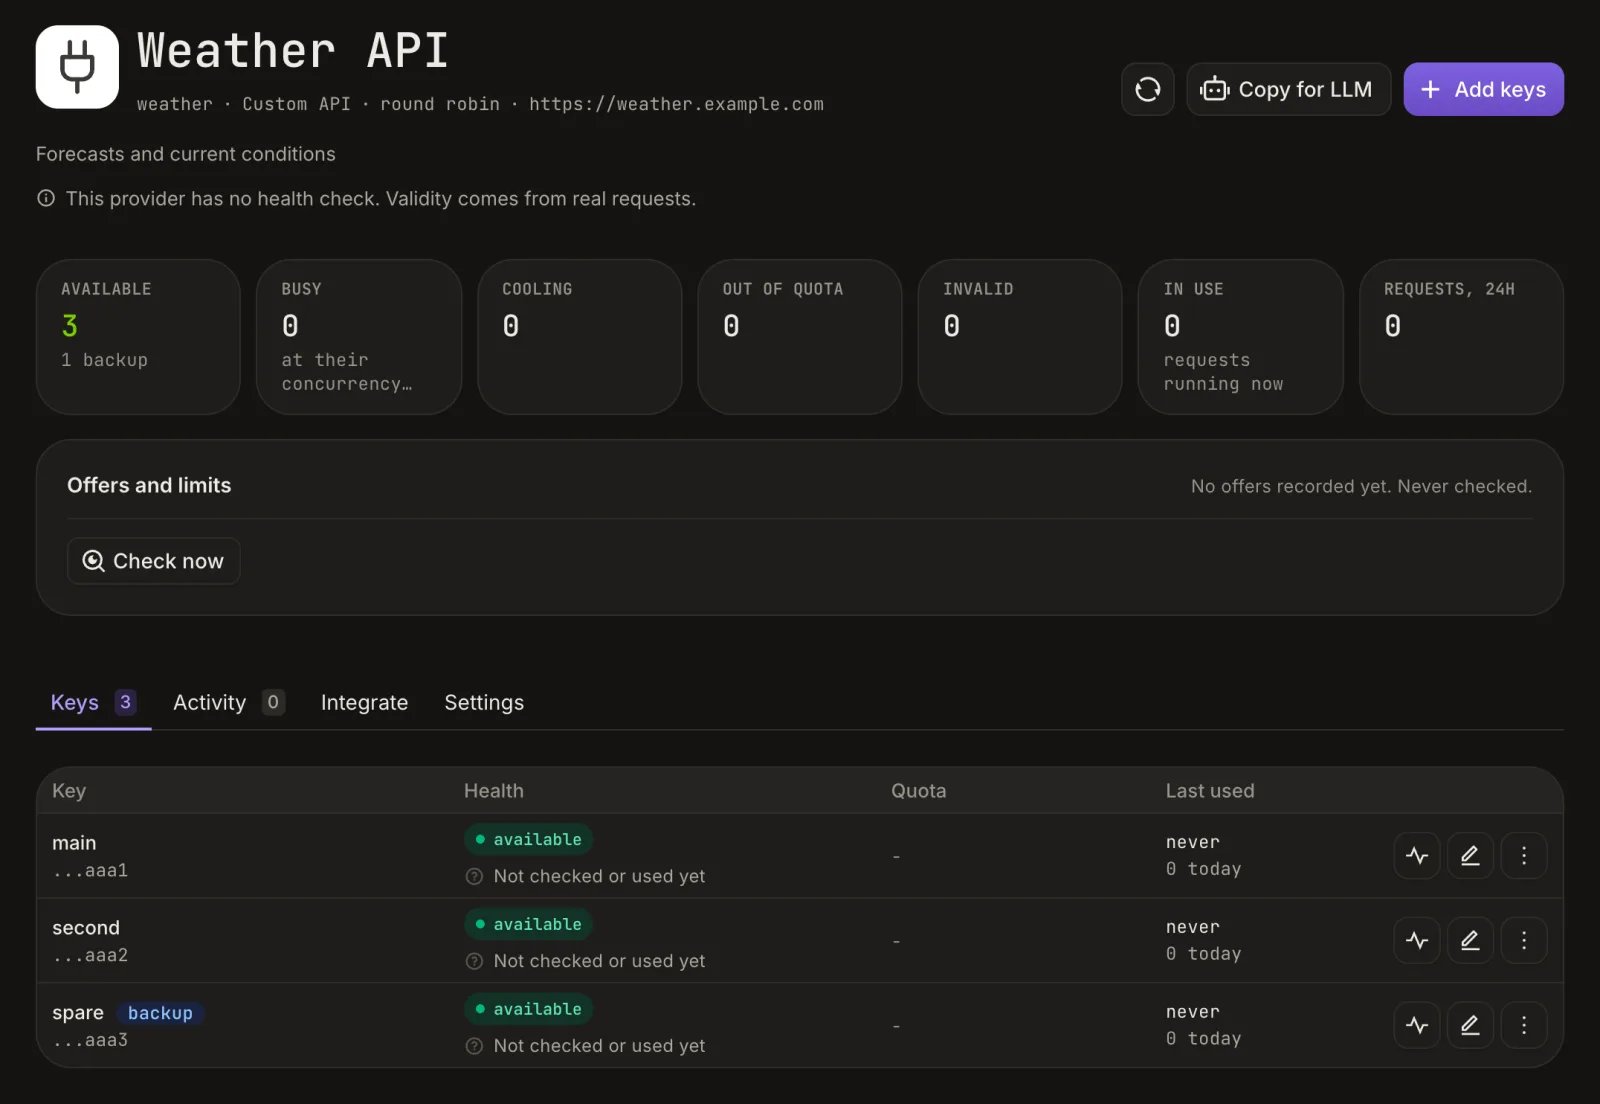
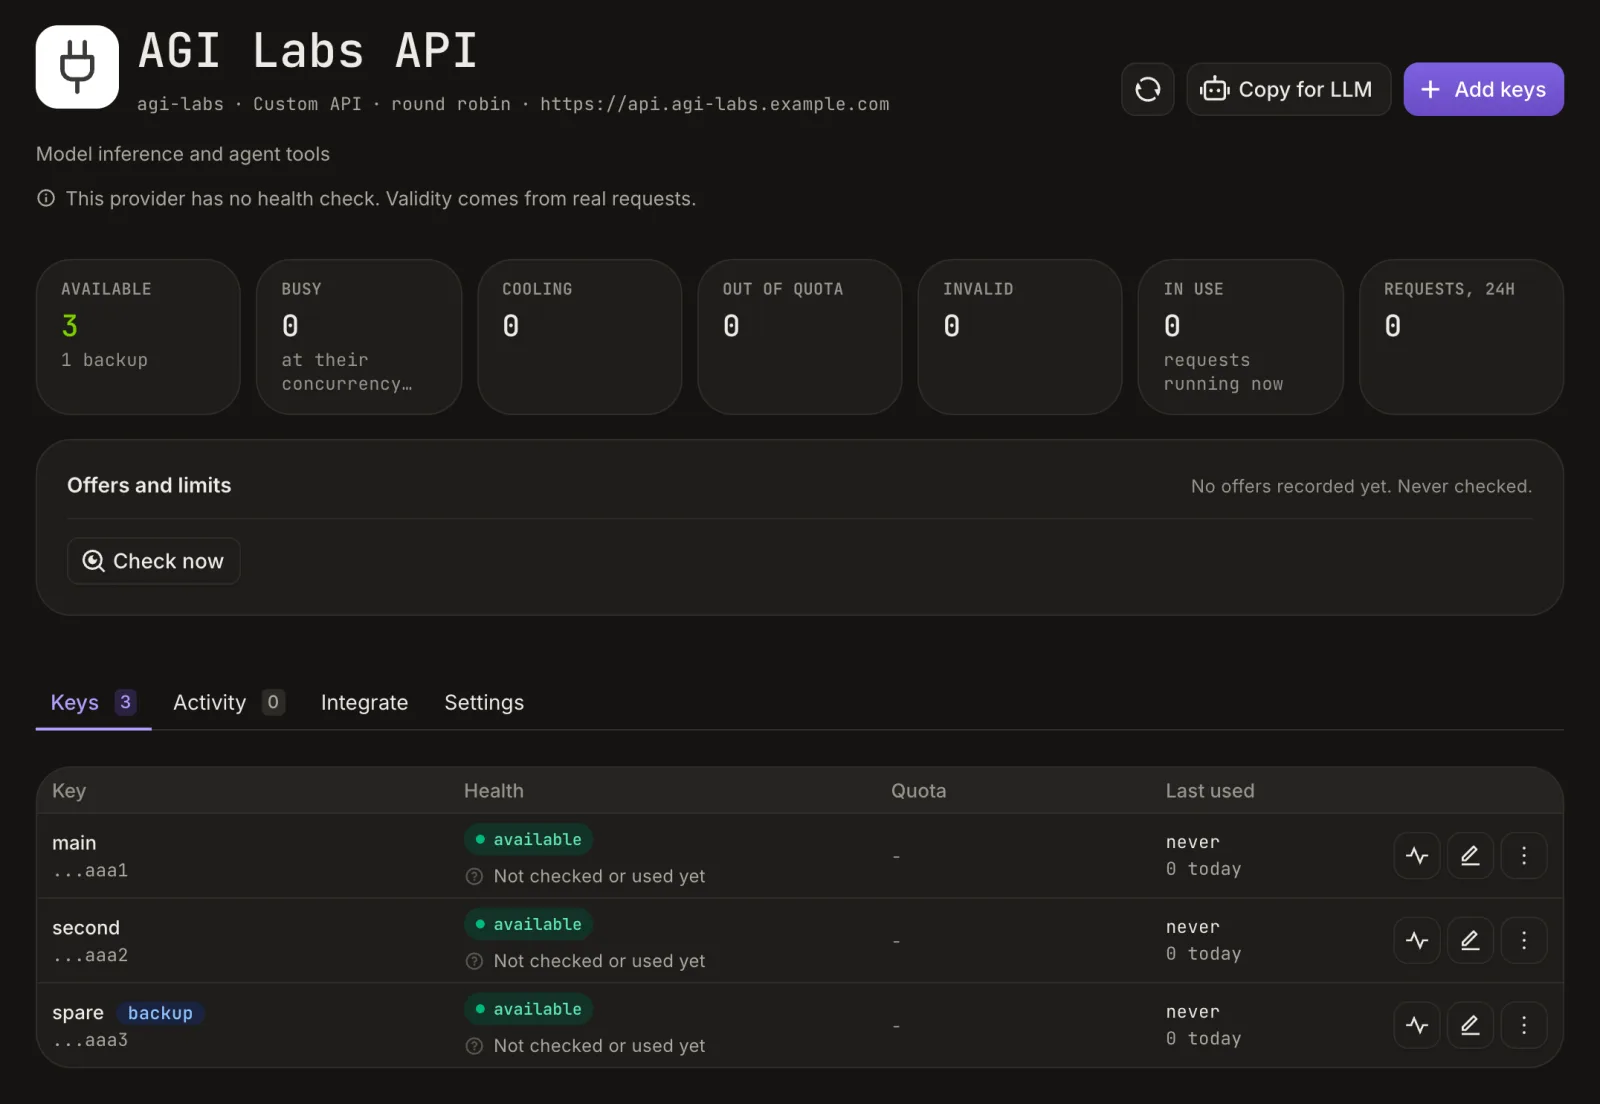
Star on GitHub, no sign in, and a phone friendly landing page
The landing nav's GitHub icon becomes a Star on GitHub button with the
star count, the Sign in buttons are gone (signed in visitors get Open
dashboard, and /login still works), and the hero offers Read the docs. On
phones the dashboard captures fit the screen instead of panning, long
install commands wrap, and the request path keeps room for its text.
"Run your own" leads with the one command install. The demo service in
the captures is AGI Labs API. The README drops the release badge, which
cannot work until the repository is public and has a release, and the
unused tour poster. The docs and not found baselines are refreshed.

diff --git a/web/src/pages/landing/Landing.tsx b/web/src/pages/landing/Landing.tsx
@@ -58,6 +58,8 @@ type Icon = ComponentType<{
   "aria-hidden"?: boolean | "true" | "false";
 }>;
 
+const UNIX_SETUP = "curl -fsSL https://raw.githubusercontent.com/sidharthpunathil/acnologia/main/setup.sh | sh";
+const WIN_SETUP = "irm https://raw.githubusercontent.com/sidharthpunathil/acnologia/main/setup.ps1 | iex";
 const UNIX_CLONE = "git clone https://github.com/sidharthpunathil/acnologia && cd acnologia";
 const UNIX_CONTAINER = "cp .env.example .env\ndocker compose up -d --build";
 const UNIX_SOURCE = "make build\nACNOLOGIA_DATA_DIR=./data ./bin/acnologia";
@@ -203,15 +205,6 @@ function GithubKey({ primary = true }: { primary?: boolean }) {
   );
 }
 
-/**
- * Where "Sign in" goes. /login runs the existing flow: the lock screen on a
- * locked deploy, first run setup on a fresh server, the sign in page
- * otherwise. Someone already signed in goes straight to the dashboard.
- */
-function useSignIn(): { href: string; label: string } {
-  const signedIn = useAuth((s) => s.status === "authenticated");
-  return signedIn ? { href: "/", label: "Open dashboard" } : { href: "/login", label: "Sign in" };
-}
 
 /** In app docs when this browser can read them; the README's list on a locked deploy. */
 function DocsLink({ className, children }: { className: string; children: ReactNode }) {
@@ -366,7 +359,7 @@ export function LandingPage() {
   const loadGate = useGate((s) => s.load);
   const gate = useGate((s) => s.status);
   const loadAuth = useAuth((s) => s.load);
-  const signIn = useSignIn();
+  const signedIn = useAuth((st) => st.status === "authenticated");
   const stars = useGithubStars();
   const starText = stars === null ? null : formatStars(stars);
 
@@ -375,8 +368,9 @@ export function LandingPage() {
     void loadGate();
   }, [loadGate]);
 
-  // Behind a locked gate the sign in state is refused anyway; past it, ask,
-  // so a signed in visitor sees "Open dashboard" instead of "Sign in".
+  // Behind a locked gate the session check is refused anyway; past it, ask,
+  // so a signed in visitor also gets an "Open dashboard" button. Visitors are
+  // not offered a sign in here: /login still works for those who need it.
   useEffect(() => {
     if (gate === "open") void loadAuth();
   }, [gate, loadAuth]);
@@ -401,23 +395,26 @@ export function LandingPage() {
               href={REPO_URL}
               target="_blank"
               rel="noopener noreferrer"
-              className="lp-navlink"
+              className="lp-key lp-key--small lp-key--primary lp-star"
               aria-label={
-                starText ? `Acnologia on GitHub, ${starText.long} stars (opens in a new tab)` : "Acnologia on GitHub (opens in a new tab)"
+                starText
+                  ? `Star Acnologia on GitHub, ${starText.long} stars (opens GitHub in a new tab)`
+                  : "Star Acnologia on GitHub (opens GitHub in a new tab)"
               }
             >
-              <RiGithubLine aria-hidden />
-              {starText ? (
-                <>
-                  <RiStarLine aria-hidden />
-                  <span className="lp-stars">{starText.short}</span>
-                </>
-              ) : null}
+              <RiStarLine aria-hidden />
+              <span className="lp-star__label">Star on GitHub</span>
+              <span className="lp-star__short" aria-hidden>
+                Star
+              </span>
+              {starText ? <span className="lp-stars">{starText.short}</span> : null}
             </a>
-            <Link href={signIn.href} className="lp-key lp-key--small">
-              <RiLoginBoxLine aria-hidden />
-              {signIn.label}
-            </Link>
+            {signedIn ? (
+              <Link href="/" className="lp-key lp-key--small">
+                <RiLoginBoxLine aria-hidden />
+                Open dashboard
+              </Link>
+            ) : null}
           </nav>
         </div>
       </header>
@@ -431,10 +428,10 @@ export function LandingPage() {
               <p className="lp-lead">A self-hosted key server that gives each caller its own token.</p>
               <div className="lp-actions">
                 <GithubKey />
-                <Link href={signIn.href} className="lp-key">
-                  <RiLoginBoxLine aria-hidden />
-                  {signIn.label}
-                </Link>
+                <DocsLink className="lp-key">
+                  <RiBookOpenLine aria-hidden />
+                  Read the docs
+                </DocsLink>
               </div>
             </div>
             <RequestPath />
@@ -614,17 +611,19 @@ export function LandingPage() {
             <div className="lp-platforms">
               <Platform
                 title="macOS or Linux"
+                setup={UNIX_SETUP}
                 clone={UNIX_CLONE}
                 container={UNIX_CONTAINER}
                 source={UNIX_SOURCE}
-                note="Run it in a container, or build from source with make."
+                note="One command installs and starts it. Or clone the repository and run it in a container or build it with make."
               />
               <Platform
                 title="Windows, in PowerShell"
+                setup={WIN_SETUP}
                 clone={WIN_CLONE}
                 container={WIN_CONTAINER}
                 source={WIN_SOURCE}
-                note="Run it in Linux containers, or build from source with no make needed."
+                note="One command installs and starts it. Or clone the repository and run it in Linux containers or build it without make."
               />
             </div>
 
@@ -691,12 +690,14 @@ export function LandingPage() {
 
 function Platform({
   title,
+  setup,
   clone,
   container,
   source,
   note,
 }: {
   title: string;
+  setup: string;
   clone: string;
   container: string;
   source: string;
@@ -706,7 +707,8 @@ function Platform({
     <div className="lp-platform">
       <h3>{title}</h3>
       {note ? <p>{note}</p> : null}
-      <CodeBlock code={clone} label="get the code" roomyCopy className="lp-code" />
+      <CodeBlock code={setup} label="install and run" roomyCopy className="lp-code" />
+      <CodeBlock code={clone} label="or get the code" roomyCopy className="lp-code" />
       <CodeBlock code={container} label="run in a container" roomyCopy className="lp-code" />
       <CodeBlock code={source} label="or build from source" roomyCopy className="lp-code" />
     </div>

diff --git a/e2e/tests/landing.spec.ts b/e2e/tests/landing.spec.ts
@@ -3,8 +3,8 @@ import { test } from "../support/fixtures";
 import { startServer, stopServer, type Started } from "../support/server";
 
 // The public landing page and the redirect to it. Signed out, home (/) is
-// /landing and Sign in starts the usual flow; deep links into the dashboard
-// still ask for the lock screen or sign in. Behaviour only: the screenshot
+// /landing, which offers no sign in: /login still starts the usual flow, and
+// deep links into the dashboard still ask for the lock screen or sign in. Behaviour only: the screenshot
 // is in login.spec.ts.
 
 const REPO = "https://github.com/sidharthpunathil/acnologia";
@@ -12,7 +12,7 @@ const REPO = "https://github.com/sidharthpunathil/acnologia";
 test.describe("open deploy, signed out", () => {
   test.use({ storageState: { cookies: [], origins: [] } });
 
-  test("home goes to the landing page, and Sign in to the sign in page", async ({ page, errors }) => {
+  test("home goes to the landing page, which stars on GitHub and offers no sign in", async ({ page, errors }) => {
     await page.goto("/");
     await expect(page).toHaveURL(/\/landing$/);
     await expect(page.getByRole("heading", { level: 1 })).toHaveText("Share your API keys without giving them away.");
@@ -23,12 +23,18 @@ test.describe("open deploy, signed out", () => {
     await expect(github).toHaveAttribute("target", "_blank");
     await expect(github).toHaveAttribute("rel", "noopener noreferrer");
 
-    // Docs are readable signed out here, so the link stays in the app.
-    await expect(page.getByRole("link", { name: "Read the docs" })).toHaveAttribute("href", "/docs");
+    // The nav's Star on GitHub opens the repository, where the star button is.
+    const star = page.getByRole("banner").getByRole("link", { name: /Star Acnologia on GitHub/ });
+    await expect(star).toHaveAttribute("href", REPO);
+    await expect(star).toHaveAttribute("target", "_blank");
 
-    await page.getByRole("banner").getByRole("link", { name: "Sign in" }).click();
+    // Docs are readable signed out here, so the link stays in the app.
+    await expect(page.getByRole("link", { name: "Read the docs" }).first()).toHaveAttribute("href", "/docs");
+
+    // No sign in on the page; /login still works for those who need it.
+    await expect(page.getByRole("link", { name: "Sign in" })).toHaveCount(0);
+    await page.goto("/login");
     await expect(page.getByRole("heading", { name: "Sign in" })).toBeVisible();
-    await expect(page).toHaveURL(/\/login$/);
     expect(errors).toEqual([]);
   });
 
@@ -77,7 +83,7 @@ plain.describe("locked deploy", () => {
     server = undefined;
   });
 
-  plain("home is the landing page; Sign in goes through the lock screen and back home", async ({ page }, info) => {
+  plain("home is the landing page; /login goes through the lock screen and back home", async ({ page }, info) => {
     plain.skip(info.project.name !== "desktop-light", "runs once, in desktop-light");
     const base = server!.baseURL;
     const failed: string[] = [];
@@ -93,7 +99,7 @@ plain.describe("locked deploy", () => {
     await expect(page.getByRole("heading", { name: "This instance is private" })).toHaveCount(0);
     await expect(page.getByRole("main").getByRole("link", { name: /View on GitHub/ }).first()).toHaveAttribute("href", REPO);
     // The docs are locked here, so the link goes to the README's list.
-    await expect(page.getByRole("link", { name: /Read the docs/ })).toHaveAttribute("href", `${REPO}#documentation`);
+    await expect(page.getByRole("link", { name: /Read the docs/ }).first()).toHaveAttribute("href", `${REPO}#documentation`);
     // Every asset the page needs loads past the lock: scripts, styles, fonts, the mark.
     await page.evaluate(() => document.fonts.ready.then(() => undefined));
     const markLoaded = await page
@@ -105,7 +111,8 @@ plain.describe("locked deploy", () => {
     expect(failed).toEqual([]);
     expect(errors).toEqual([]);
 
-    await page.getByRole("banner").getByRole("link", { name: "Sign in" }).click();
+    await expect(page.getByRole("link", { name: "Sign in" })).toHaveCount(0);
+    await page.goto(`${base}/login`);
     await expect(page.getByRole("heading", { name: "This instance is private" })).toBeVisible();
     await page.getByLabel("Access password").fill(PASSWORD);
     await page.getByRole("button", { name: "Unlock" }).click();

diff --git a/web/src/pages/landing/landing.css b/web/src/pages/landing/landing.css
@@ -194,6 +194,9 @@ body:has(.hm-landing) {
 .lp-navlink:active { background: var(--color-rule); }
 .lp-navlink svg { width: 20px; height: 20px; flex-shrink: 0; }
 .lp-stars { font-variant-numeric: tabular-nums; }
+/* Star on GitHub: the full label on wide screens, "Star" on phones. */
+.lp-star__short { display: none; }
+.lp-star .lp-stars { padding-left: var(--space-2xs); margin-left: var(--space-2xs); border-left: 1px solid color-mix(in oklab, currentColor 35%, transparent); }
 
 /* Hero: Stage. Text on five columns, the request path on seven, over the field. */
 .lp-hero {
@@ -545,8 +548,16 @@ body:has(.hm-landing) {
   .lp-path { min-height: 0; }
   .lp-wire { min-height: 48px; }
   .lp-steps { grid-template-columns: minmax(0, 1fr); }
-  .lp-shot img { width: 760px; max-width: none; }
-  .lp-shot[data-slot="share-dialog"] img { width: 560px; }
+  /* Screens fit the phone's width instead of panning, so nothing is cut off. */
+  .lp-shot img,
+  .lp-shot[data-slot="share-dialog"] img { width: 100%; max-width: 100%; }
+  /* Long commands wrap inside their panel; Copy still copies the exact line. */
+  .hm-landing .lp-code pre { white-space: pre-wrap; overflow-wrap: anywhere; }
+  /* The request path: notes move under the text so the text keeps its width. */
+  .lp-stop .lp-status { grid-column: 2; justify-self: start; }
+  .lp-stop__icon { width: 32px; height: 32px; }
+  .lp-stop__icon svg { width: 20px; height: 20px; }
+  .lp-stop__icon img { width: 32px; height: 32px; }
   .lp-shot__pan:focus-visible { outline-offset: -2px; }
   /* The table restacks: each row a labelled block. */
   .lp-table thead { position: absolute; width: 1px; height: 1px; overflow: hidden; clip-path: inset(50%); }
@@ -561,6 +572,17 @@ body:has(.hm-landing) {
   .lp-table tbody th { padding: 0; border: 0; }
   .lp-table tr > * + td { margin-top: var(--space-sm); }
   .lp-table td[data-label]::before { content: attr(data-label); display: block; font-size: var(--text-sm); color: var(--color-muted); }
+}
+
+/* Small phones: the star button shortens, and the hero actions stack. */
+@media (max-width: 30rem) {
+  .lp-star__label { display: none; }
+  .lp-star__short { display: inline; }
+}
+@media (max-width: 24rem) {
+  .lp-actions { flex-wrap: wrap; }
+  .lp-actions > * { flex: 1 1 100%; }
+  .lp-wordmark { font-size: var(--text-md); }
 }
 
 @media (prefers-reduced-motion: reduce) {

diff --git a/server/internal/docsmd/files/overview.md b/server/internal/docsmd/files/overview.md
@@ -6,7 +6,6 @@ Share your API keys without giving them away.
 
 <p>
   <a href="https://github.com/sidharthpunathil/acnologia/actions/workflows/ci.yml"><img alt="CI" src="https://github.com/sidharthpunathil/acnologia/actions/workflows/ci.yml/badge.svg?branch=main"></a>
-  <a href="https://github.com/sidharthpunathil/acnologia/releases"><img alt="Latest release" src="https://img.shields.io/github/v/release/sidharthpunathil/acnologia?sort=semver"></a>
   <img alt="Go 1.26" src="https://img.shields.io/badge/go-1.26-00ADD8">
   <img alt="Linux, macOS and Windows" src="https://img.shields.io/badge/platform-linux%20%7C%20macos%20%7C%20windows-555">
   <a href="LICENSE"><img alt="MIT license" src="https://img.shields.io/badge/license-MIT-2ea44f"></a>
@@ -70,7 +69,28 @@ looks after it:
 
 ## Quick start
 
-On macOS or Linux:
+One command installs the server, starts it in the background and keeps it
+running across restarts. On macOS or Linux:
+
+```sh
+curl -fsSL https://raw.githubusercontent.com/sidharthpunathil/acnologia/main/setup.sh | sh
+```
+
+On Windows, in PowerShell:
+
+```powershell
+irm https://raw.githubusercontent.com/sidharthpunathil/acnologia/main/setup.ps1 | iex
+```
+
+It downloads the newest release and checks its checksum, keeps everything in
+one folder (`~/.acnologia`, or `%LocalAppData%\Acnologia` on Windows),
+listens on `127.0.0.1:8080` only, and runs as a launchd agent, a systemd user
+service or a Scheduled Task. Run it again to upgrade. Add options after
+`sh -s --`: `--port 9090`, `--with-cli` (also installs `acn`), `--docker` (the
+container image instead), `--no-service`, or `--uninstall`. For a public
+server with a domain and HTTPS, see [Deploy](#deploy).
+
+Or run it yourself, with Docker or from source:
 
 ```sh
 git clone https://github.com/sidharthpunathil/acnologia && cd acnologia
@@ -84,19 +104,8 @@ make build
 ACNOLOGIA_DATA_DIR=./data ./bin/acnologia
 ```
 
-On Windows, in PowerShell:
-
-```powershell
-git clone https://github.com/sidharthpunathil/acnologia; cd acnologia
-
-# Docker Desktop (Linux containers)
-Copy-Item .env.example .env
-docker compose up -d --build
-
-# or from source (Go 1.26, Node 22, pnpm 10), no make needed
-.\scripts\build.ps1
-.\bin\acnologia.exe    # data goes to %LocalAppData%\Acnologia
-```
+On Windows from source, `.\scripts\build.ps1` builds without make, and
+`.\bin\acnologia.exe` keeps its data in `%LocalAppData%\Acnologia`.
 
 Release builds for Linux, macOS and Windows (amd64 and arm64) are on the
 [releases page](https://github.com/sidharthpunathil/acnologia/releases).

diff --git a/README.md b/README.md
@@ -6,7 +6,6 @@ Share your API keys without giving them away.
 
 <p>
   <a href="https://github.com/sidharthpunathil/acnologia/actions/workflows/ci.yml"><img alt="CI" src="https://github.com/sidharthpunathil/acnologia/actions/workflows/ci.yml/badge.svg?branch=main"></a>
-  <a href="https://github.com/sidharthpunathil/acnologia/releases"><img alt="Latest release" src="https://img.shields.io/github/v/release/sidharthpunathil/acnologia?sort=semver"></a>
   <img alt="Go 1.26" src="https://img.shields.io/badge/go-1.26-00ADD8">
   <img alt="Linux, macOS and Windows" src="https://img.shields.io/badge/platform-linux%20%7C%20macos%20%7C%20windows-555">
   <a href="LICENSE"><img alt="MIT license" src="https://img.shields.io/badge/license-MIT-2ea44f"></a>
